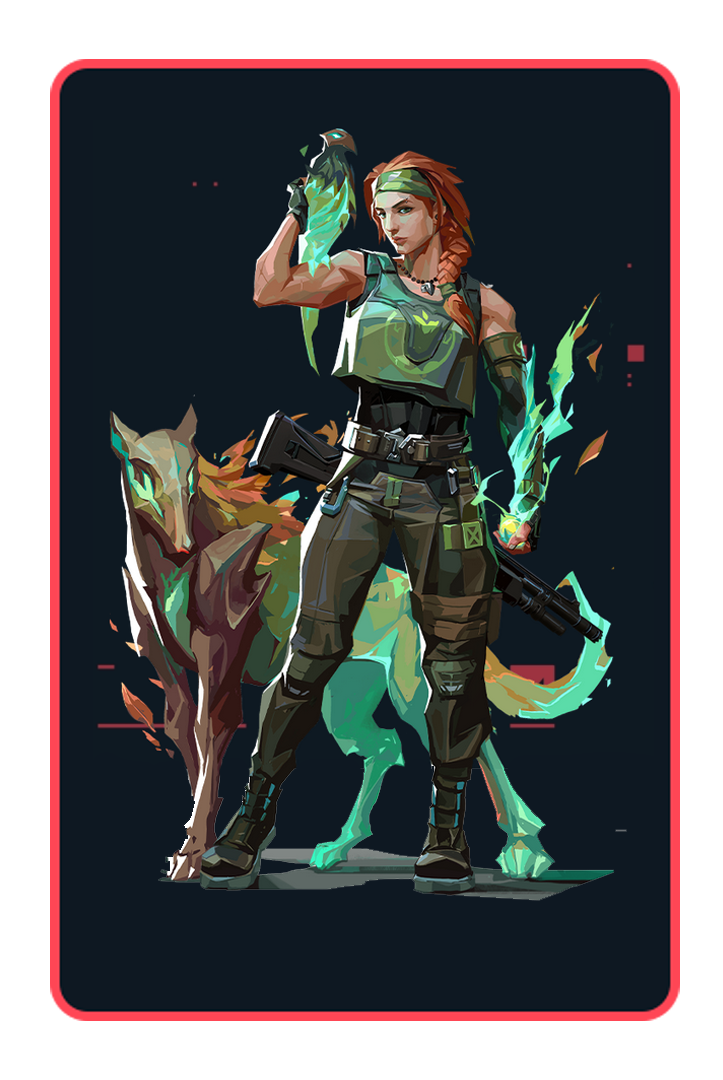
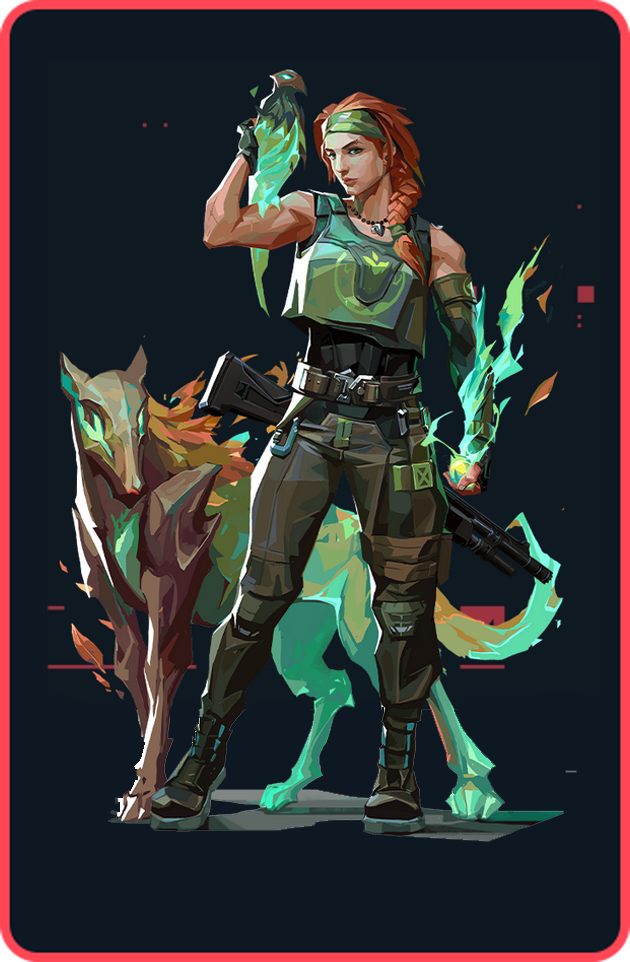
Correção png

diff --git a/Desafio JavaScript/style.css b/Desafio JavaScript/style.css
@@ -1,5 +1,5 @@
 * {
-    padding: 0;
+    padding: 3px;
     margin: 0;
     box-sizing: border-box;
 }
@@ -36,8 +36,8 @@ body {
 }
 
 .card {
-    height: calc(33.333% - 10px);
-    width: calc(7.1% - 10px);
+    height: calc(29.333% - 10px);
+    width: calc(7% - 10px);
     margin: 5px;
     position: relative;
     /* box-shadow: 1px 1px 1px white; */
@@ -70,4 +70,5 @@ body {
 
 .card.flip {
     transform: rotateY(180deg);
+
 }

diff --git a/Desafio JavaScript/Index.html b/Desafio JavaScript/Index.html
@@ -73,6 +73,7 @@
         <div class="card" data-card="reyna">
             <img class="card-front" src="img/Reyna.png" alt="Face da carta">
             <img class="card-back" src="img/Verso.png" alt="Verso da carta">
+            
         </div>
         <div class="card" data-card="sage">
             <img class="card-front" src="img/Sage.png" alt="Face da carta">
